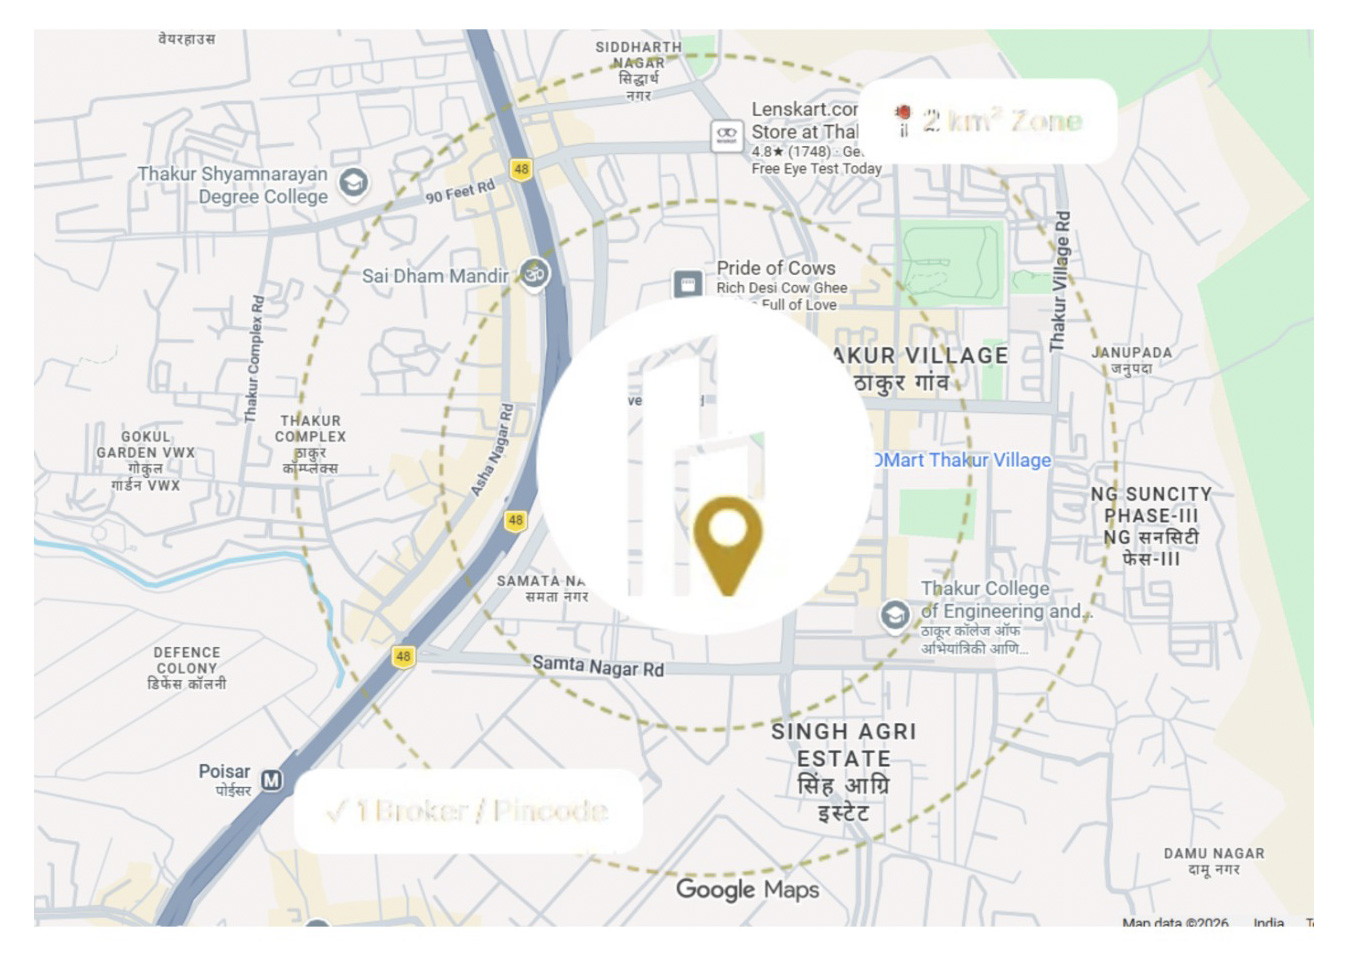
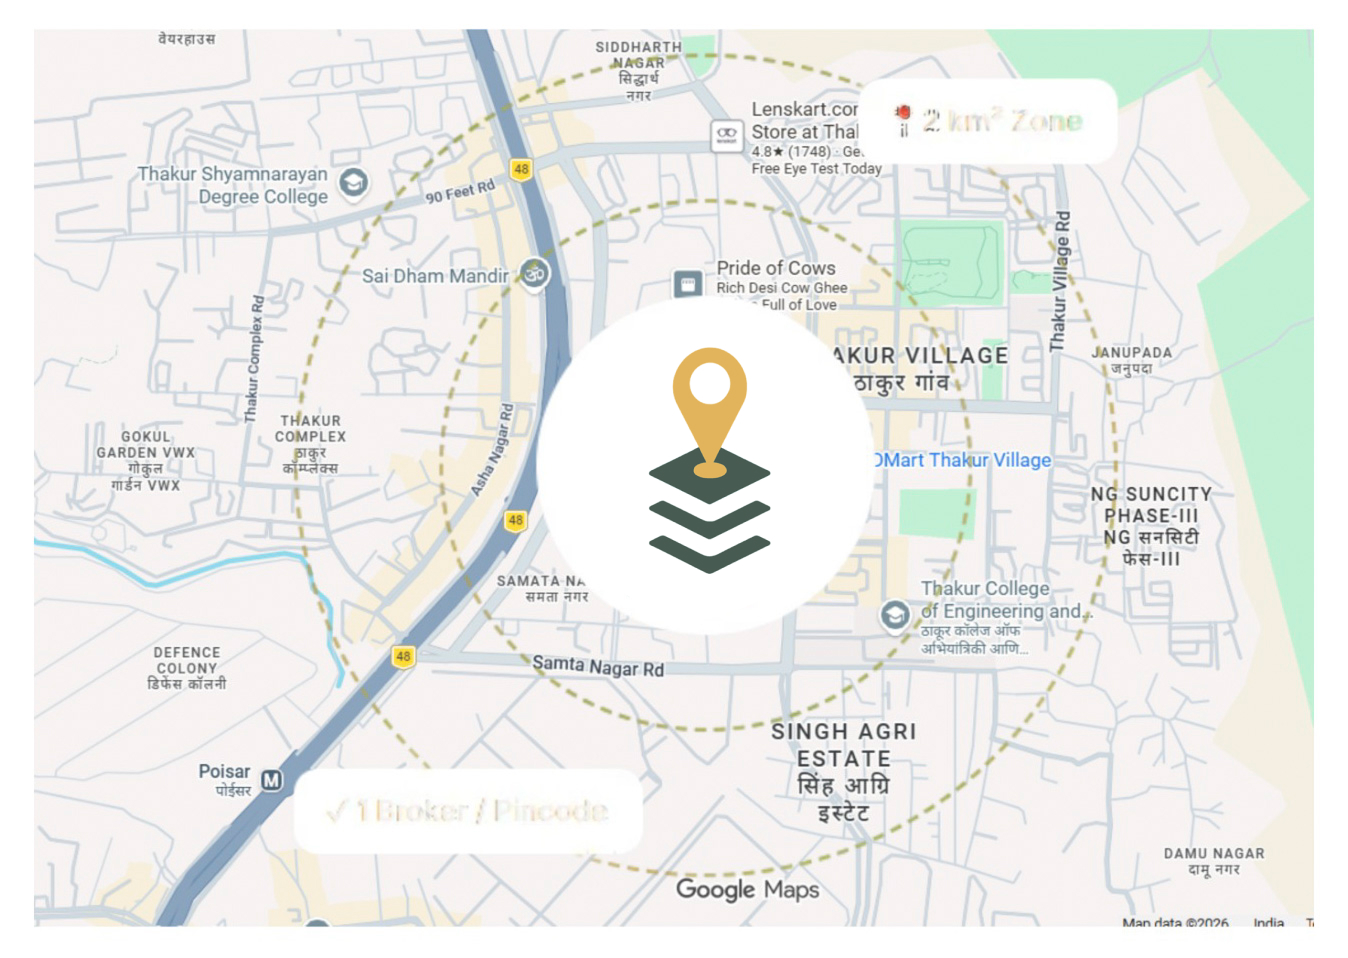
add

Changed region(s): [[0.4674, 0.333, 0.592, 0.6357]]

diff --git a/index.html b/index.html
@@ -87,63 +87,51 @@
   <!-- wrap-custom-stats-wrap  -->
   <section class="wrap-custom-stats-wrap">
     <div class="container custom-stats-container">
-      <div class="custom-stats-inner">
-            <div class="stat-item">
-          <div class="stat-icon-wrap">
-            <svg xmlns="http://www.w3.org/2000/svg" width="22" height="22" viewBox="0 0 24 24" fill="none"
-              stroke="currentColor" stroke-width="2" stroke-linecap="round" stroke-linejoin="round">
-              <path d="m3 9 9-7 9 7v11a2 2 0 0 1-2 2H5a2 2 0 0 1-2-2z"></path>
-              <polyline points="9 22 9 12 15 12 15 22"></polyline>
-            </svg>
-          </div>
-          <div class="stat-content">
-            <h4>0,000+</h4>
-            <p>Live Inventory</p>
-          </div>
-        </div>
-        <div class="stat-item">
-          <div class="stat-icon-wrap">
-            <svg xmlns="http://www.w3.org/2000/svg" width="22" height="22" viewBox="0 0 24 24" fill="none"
-              stroke="currentColor" stroke-width="2" stroke-linecap="round" stroke-linejoin="round">
-              <path d="M16 21v-2a4 4 0 0 0-4-4H6a4 4 0 0 0-4 4v2"></path>
-              <circle cx="9" cy="7" r="4"></circle>
-              <path d="M22 21v-2a4 4 0 0 0-3-3.87"></path>
-              <path d="M16 3.13a4 4 0 0 1 0 7.75"></path>
-            </svg>
-          </div>
-          <div class="stat-content">
-            <h4>0,000+</h4>
-            <p>Active Requirements</p>
-          </div>
-        </div>
-    
-        <div class="stat-item">
-          <div class="stat-icon-wrap">
-            <svg xmlns="http://www.w3.org/2000/svg" width="22" height="22" viewBox="0 0 24 24" fill="none"
-              stroke="currentColor" stroke-width="2" stroke-linecap="round" stroke-linejoin="round">
-              <path d="M22 11.08V12a10 10 0 1 1-5.93-9.14"></path>
-              <polyline points="22 4 12 14.01 9 11.01"></polyline>
-            </svg>
-          </div>
-          <div class="stat-content">
-            <h4>0,000+</h4>
-            <p>Verified Members</p>
-          </div>
-        </div>
-        <div class="stat-item">
-          <div class="stat-icon-wrap">
-            <svg xmlns="http://www.w3.org/2000/svg" width="22" height="22" viewBox="0 0 24 24" fill="none"
-              stroke="currentColor" stroke-width="2" stroke-linecap="round" stroke-linejoin="round">
-              <path d="M21 10c0 7-9 13-9 13s-9-6-9-13a9 9 0 0 1 18 0z"></path>
-              <circle cx="12" cy="10" r="3"></circle>
-            </svg>
-          </div>
-          <div class="stat-content">
-            <h4>00+</h4>
-            <p>Cities Covered</p>
-          </div>
-        </div>
-      </div>
+<div class="custom-stats-inner">
+  <div class="stat-item">
+    <div class="stat-icon-wrap">
+      <svg xmlns="http://www.w3.org/2000/svg" width="22" height="22" viewBox="0 0 24 24" fill="none"
+        stroke="currentColor" stroke-width="2" stroke-linecap="round" stroke-linejoin="round">
+        <path d="m3 9 9-7 9 7v11a2 2 0 0 1-2 2H5a2 2 0 0 1-2-2z"></path>
+        <polyline points="9 22 9 12 15 12 15 22"></polyline>
+      </svg>
+    </div>
+    <div class="stat-content">
+      <h4>2 sq km</h4>
+      <p>EXCLUSIVE ZONE</p>
+    </div>
+  </div>
+
+  <div class="stat-item">
+    <div class="stat-icon-wrap">
+      <svg xmlns="http://www.w3.org/2000/svg" width="22" height="22" viewBox="0 0 24 24" fill="none"
+        stroke="currentColor" stroke-width="2" stroke-linecap="round" stroke-linejoin="round">
+        <path d="M16 21v-2a4 4 0 0 0-4-4H6a4 4 0 0 0-4 4v2"></path>
+        <circle cx="9" cy="7" r="4"></circle>
+        <path d="M22 21v-2a4 4 0 0 0-3-3.87"></path>
+        <path d="M16 3.13a4 4 0 0 1 0 7.75"></path>
+      </svg>
+    </div>
+    <div class="stat-content">
+      <h4>100%</h4>
+      <p>DIRECT LEADS</p>
+    </div>
+  </div>
+
+  <div class="stat-item">
+    <div class="stat-icon-wrap">
+      <svg xmlns="http://www.w3.org/2000/svg" width="22" height="22" viewBox="0 0 24 24" fill="none"
+        stroke="currentColor" stroke-width="2" stroke-linecap="round" stroke-linejoin="round">
+        <path d="M22 11.08V12a10 10 0 1 1-5.93-9.14"></path>
+        <polyline points="22 4 12 14.01 9 11.01"></polyline>
+      </svg>
+    </div>
+    <div class="stat-content">
+      <h4>Zero</h4>
+      <p>PORTAL DILUTION</p>
+    </div>
+  </div>
+</div>
     </div>
   </section>
   <!-- Why Hyperlocal -->
@@ -227,9 +215,11 @@
         <span class="eyebrow">ABOUT US</span>
         <h2>What Is <span class="text-gold">RealLocale?</span></h2>
         <p><strong>RealLocale</strong> is India's first hyper-local real estate platform connecting buyers and sellers
-          with verified area-specialist brokers operating within exclusive 2 sq km pincode zones. One broker per pincode.</p>
+          with verified area-specialist brokers operating within exclusive 2 sq km pincode zones. One broker per
+          pincode.</p>
         <p class="sub-text">By focusing on neighbourhood expertise, RealLocale helps brokers build local recognition,
-          generate direct lead calls, and close property deals faster without competition from general property portals.</p>
+          generate direct lead calls, and close property deals faster without competition from general property portals.
+        </p>
 
         <div class="problem-callout">
           <p>Instead of competing everywhere, RealLocale helps you build visibility where your knowledge matters most:
@@ -1008,10 +998,15 @@
         <div class="footer-info-item">
           <strong>Address:</strong> Lonavala, Maharashtra
         </div>
-        <div class="footer-info-item">
-          <strong>Phone:</strong>
-          <a href="tel:+919822020851">+91 98220 20851</a>
-        </div>
+     <div class="footer-info-item">
+  <a href="https://wa.me/919822020851" target="_blank" rel="noopener noreferrer">
+    <svg xmlns="http://www.w3.org/2000/svg" width="18" height="18" viewBox="0 0 24 24"
+      fill="currentColor" style="vertical-align: middle; margin-right: 5px;">
+      <path d="M20.52 3.48A11.8 11.8 0 0 0 12.04 0C5.5 0 .18 5.32.18 11.86c0 2.09.55 4.13 1.59 5.93L.08 24l6.36-1.67a11.84 11.84 0 0 0 5.6 1.42h.01c6.54 0 11.86-5.32 11.86-11.86a11.8 11.8 0 0 0-3.39-8.41ZM12.04 21.7a9.83 9.83 0 0 1-5.01-1.37l-.36-.21-3.77.99 1.01-3.67-.23-.38a9.83 9.83 0 1 1 8.36 4.64Zm5.4-7.36c-.3-.15-1.77-.87-2.04-.97-.28-.1-.48-.15-.68.15-.2.3-.78.97-.96 1.17-.18.2-.35.22-.65.07-.3-.15-1.26-.46-2.4-1.46-.89-.79-1.49-1.77-1.67-2.07-.18-.3-.02-.46.13-.61.14-.13.3-.35.45-.52.15-.18.2-.3.3-.5.1-.2.05-.37-.03-.52-.08-.15-.68-1.64-.93-2.25-.24-.59-.49-.51-.68-.52h-.58c-.2 0-.52.07-.8.37-.27.3-1.05 1.02-1.05 2.5s1.08 2.9 1.23 3.1c.15.2 2.12 3.24 5.13 4.54.72.31 1.28.5 1.72.64.72.23 1.38.2 1.9.12.58-.09 1.77-.72 2.02-1.42.25-.7.25-1.3.18-1.42-.08-.13-.28-.2-.58-.35Z"/>
+    </svg>
+    +91 98220 20851
+  </a>
+</div>
         <div class="footer-legal-links">
           <a href="privacy-policy.html">Privacy Policy</a>
           <a href="terms-of-service.html">Terms of Service</a>

diff --git a/css/style.css b/css/style.css
@@ -483,7 +483,7 @@ p {
   border-radius: 20px;
   padding: 24px 36px;
   display: grid;
-  grid-template-columns: repeat(4, 1fr);
+  grid-template-columns: repeat(3, 1fr);
   gap: 28px;
   align-items: center;
   box-shadow: 0 18px 45px rgba(15, 38, 26, 0.22), 0 4px 12px rgba(0, 0, 0, 0.08);
